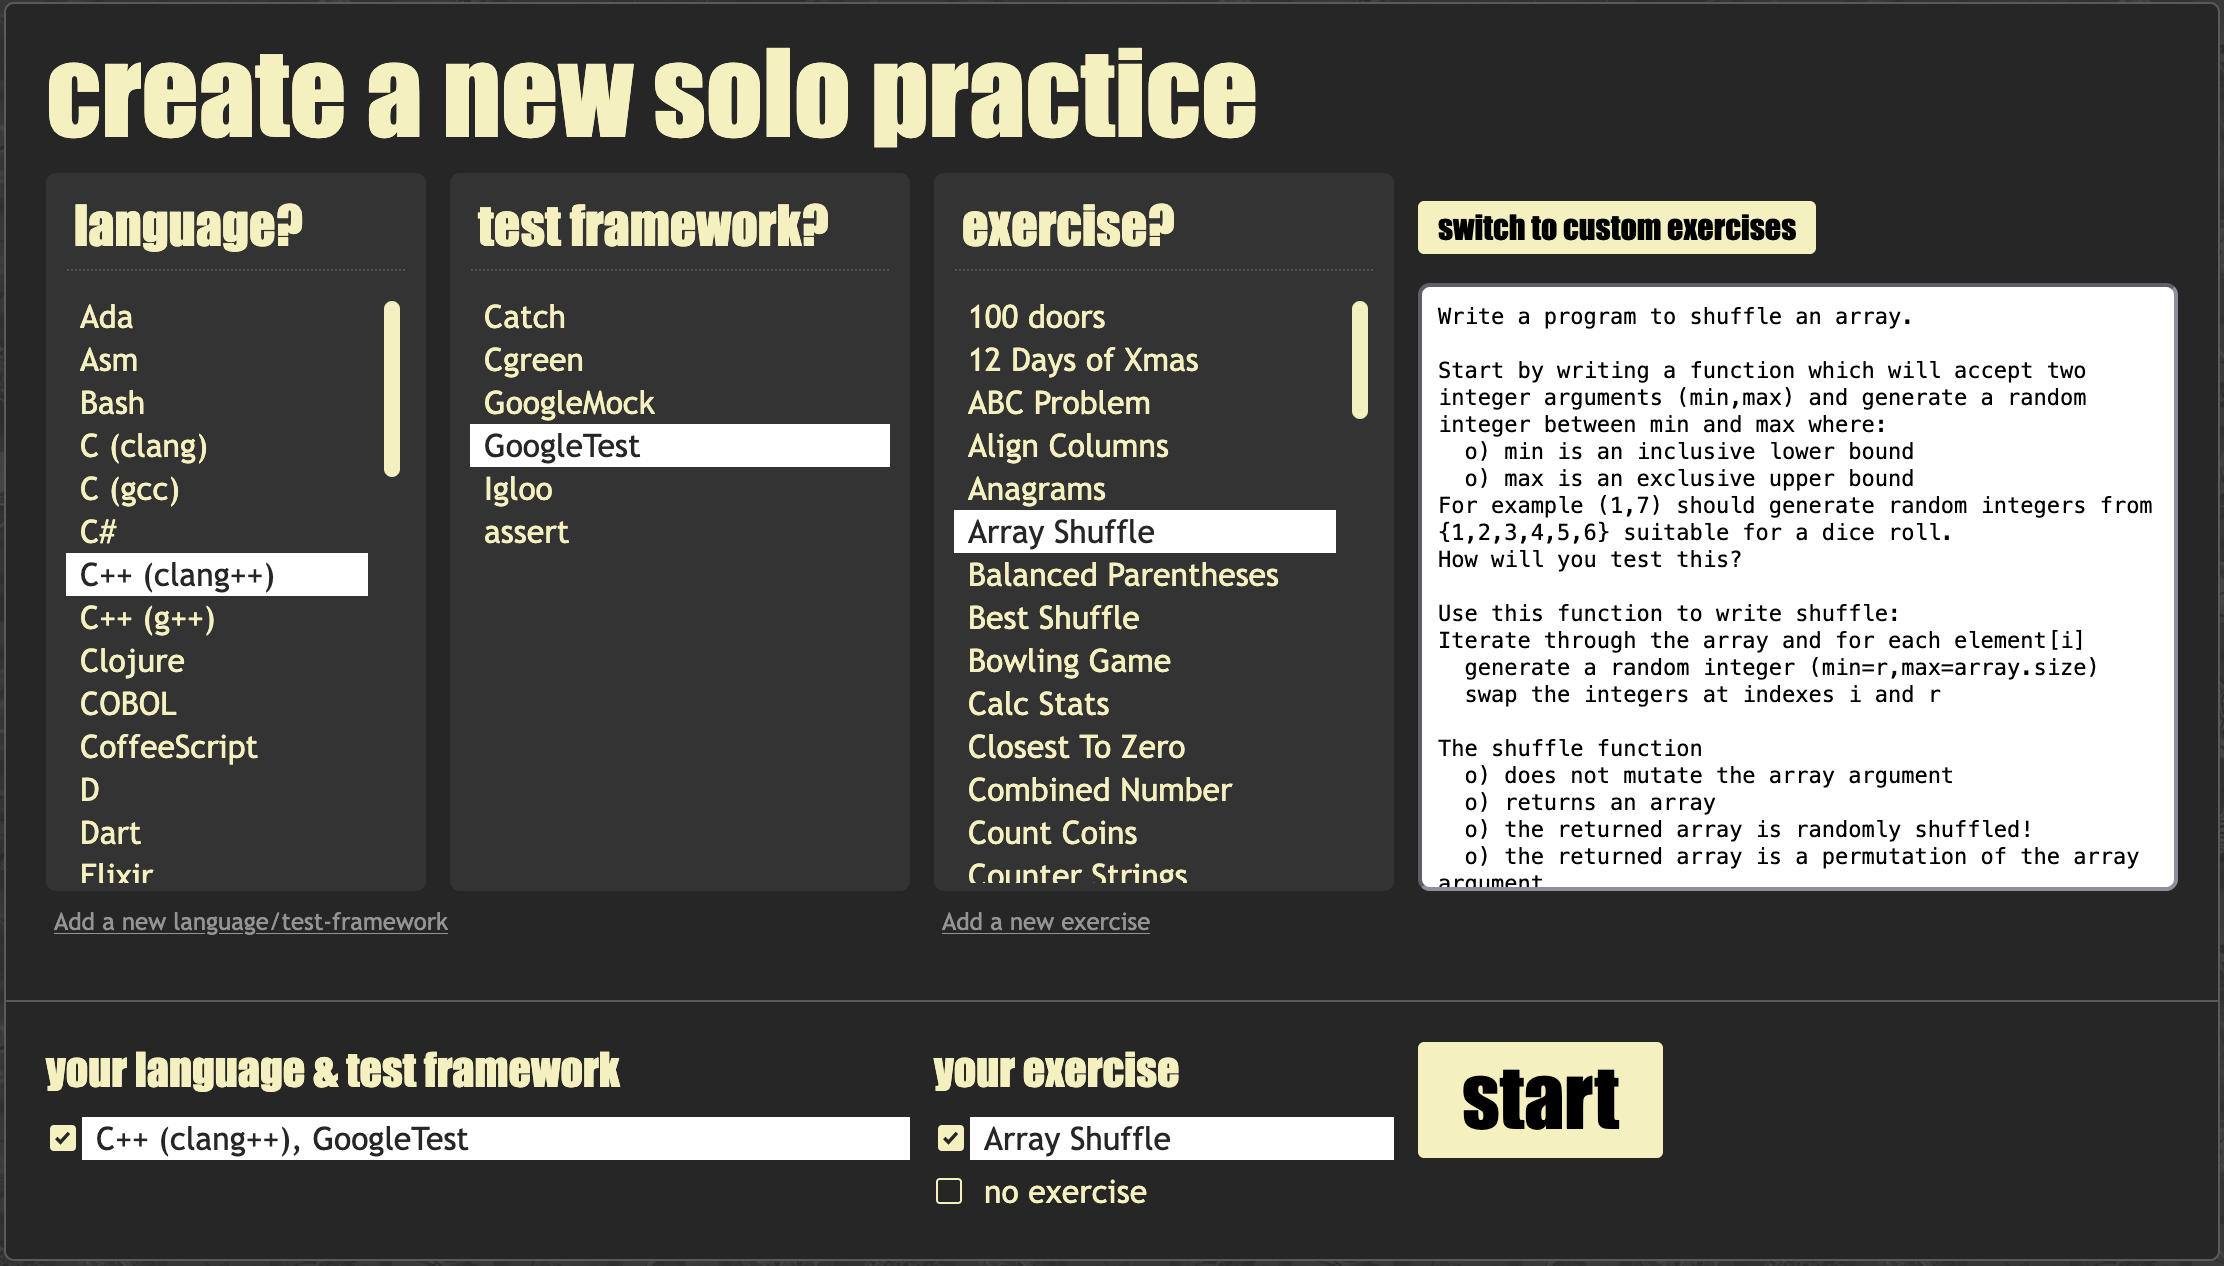
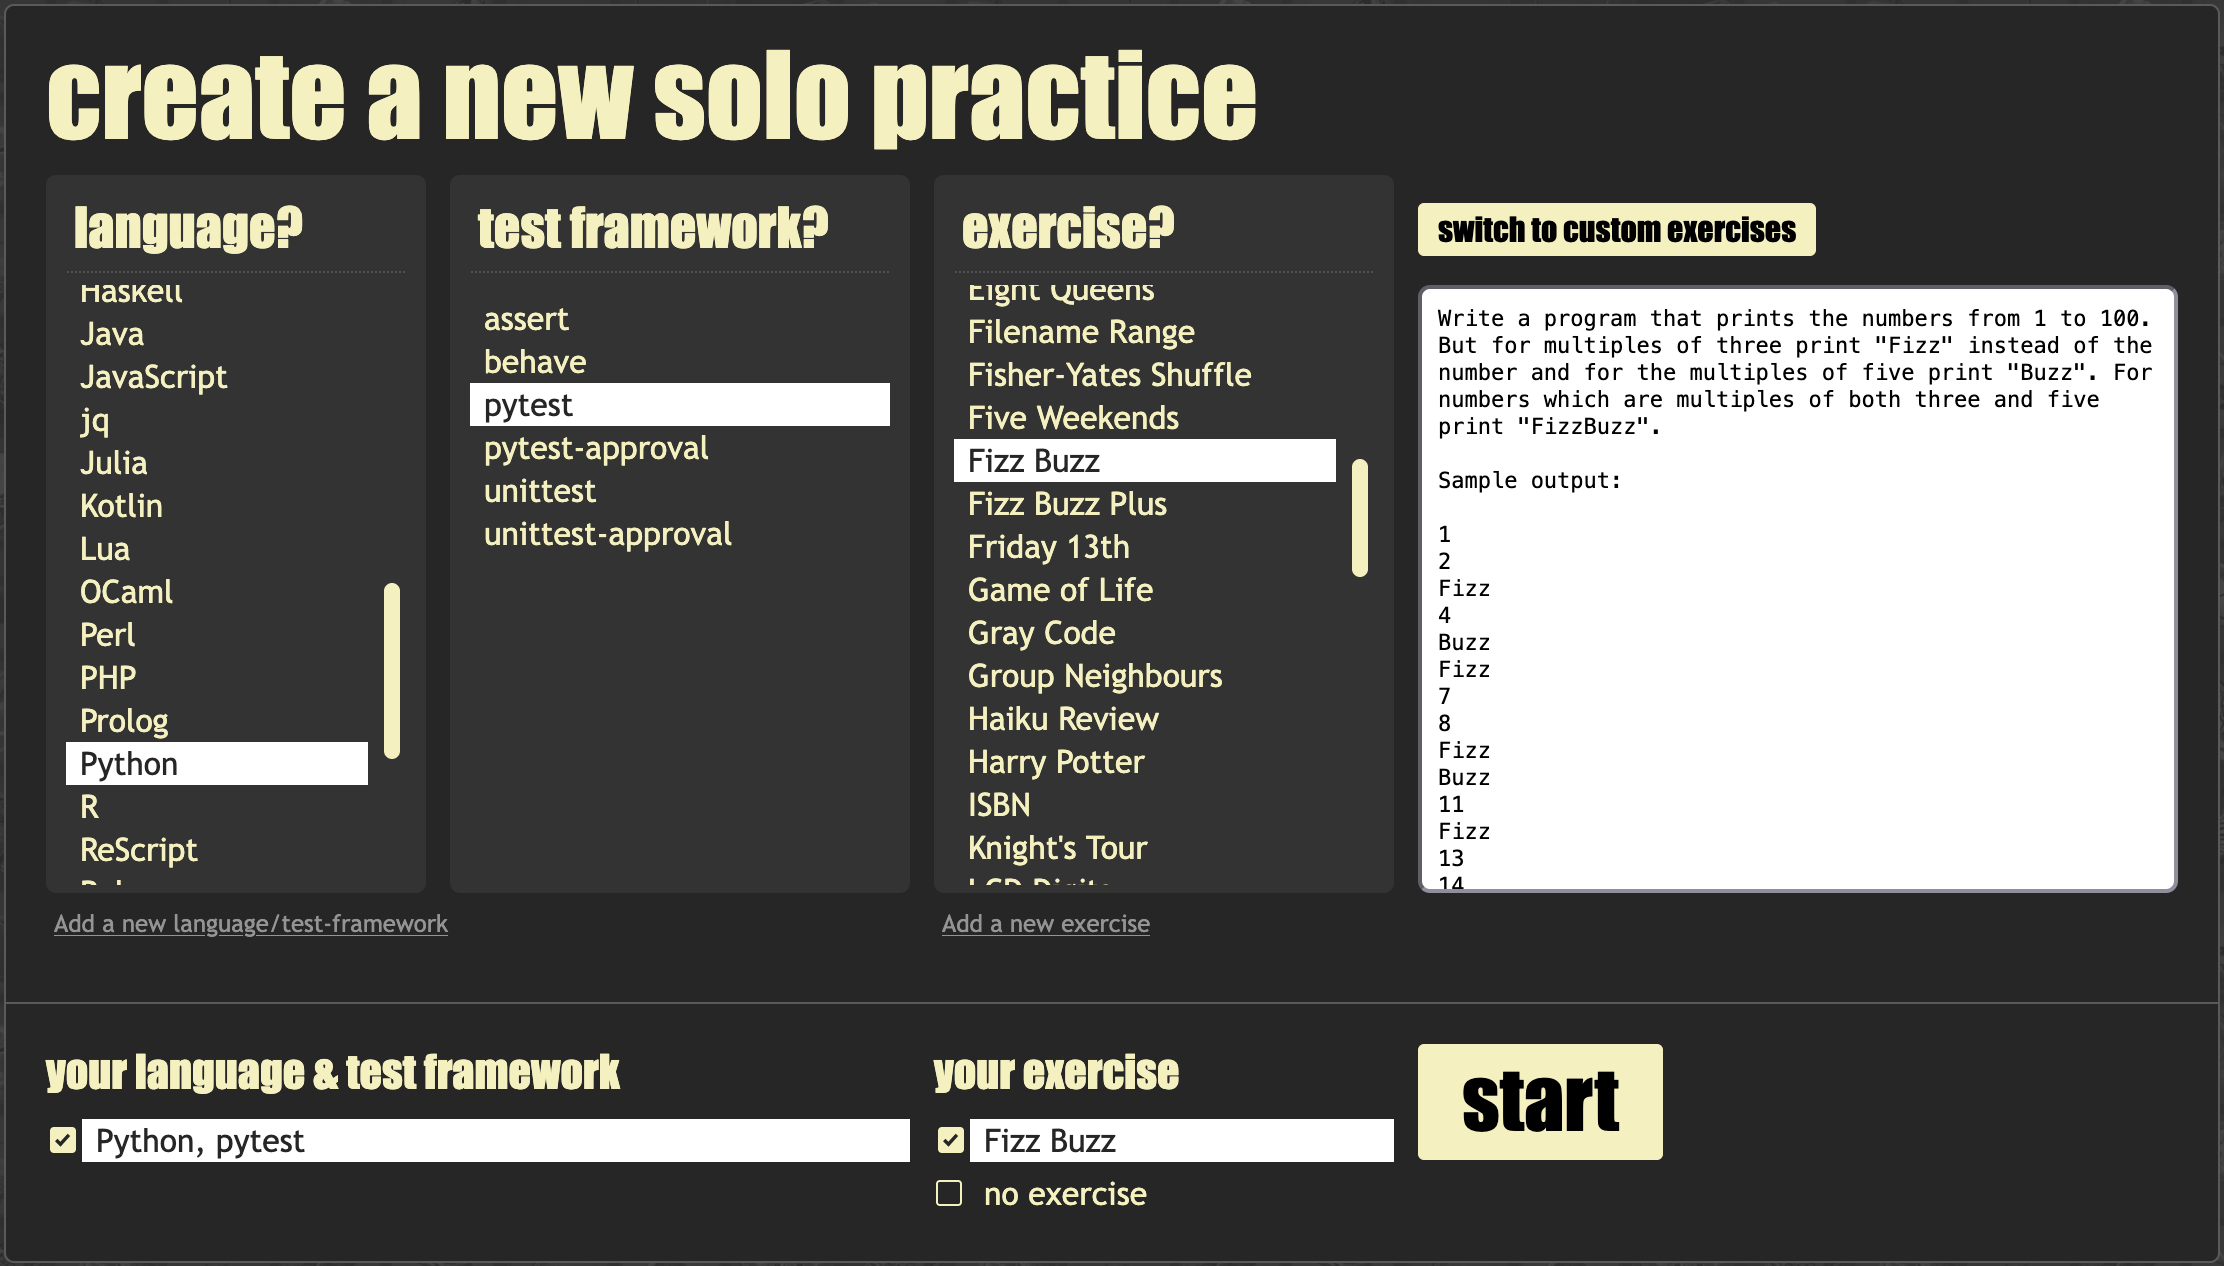
Update readme screenshot to match readme text

diff --git a/README.md b/README.md
@@ -1,6 +1,7 @@
 [![GitHub CI](../../actions/workflows/main.yml/badge.svg)](../../actions/workflows/main.yml)
 
-A [docker-containerized](https://registry.hub.docker.com/r/cyberdojo/languages-start-points) micro-service for [https://cyber-dojo.org](http://cyber-dojo.org) serving this page:
+A [docker-containerized](https://registry.hub.docker.com/r/cyberdojo/languages-start-points) micro-service for [https://cyber-dojo.org](http://cyber-dojo.org) serving the `language?` and `test-framework?` choices in
+this page:
 
 ![Screenshot](https://github.com/cyber-dojo/languages-start-points/blob/main/docs/screen_shot.png)
 
@@ -8,9 +9,9 @@ A [docker-containerized](https://registry.hub.docker.com/r/cyberdojo/languages-s
 A languages-start-points image provides an API for the `language & test-framework`
 choices when setting up a practice session in [cyber-dojo](https://cyber-dojo.org)
 
-In the above screenshot, `Python 3.14.3, pytest 9.0.2` is selected.
+In the above screenshot, `Python` and `pytest` is selected.
 
-The source for the Python,pytest start point is the GitHub repo
+The source for the `Python`+`pytest` start point is the GitHub repo
 [cyber-dojo-languages/python-pytest](https://github.com/cyber-dojo-languages/python-pytest)
 
 The following cyber-dojo [CLI](https://github.com/cyber-dojo/commander/blob/master/cyber-dojo) command creates a languages-start-points image called `only-python-pytest` serving only this start-point, at commit `921f17a`:
